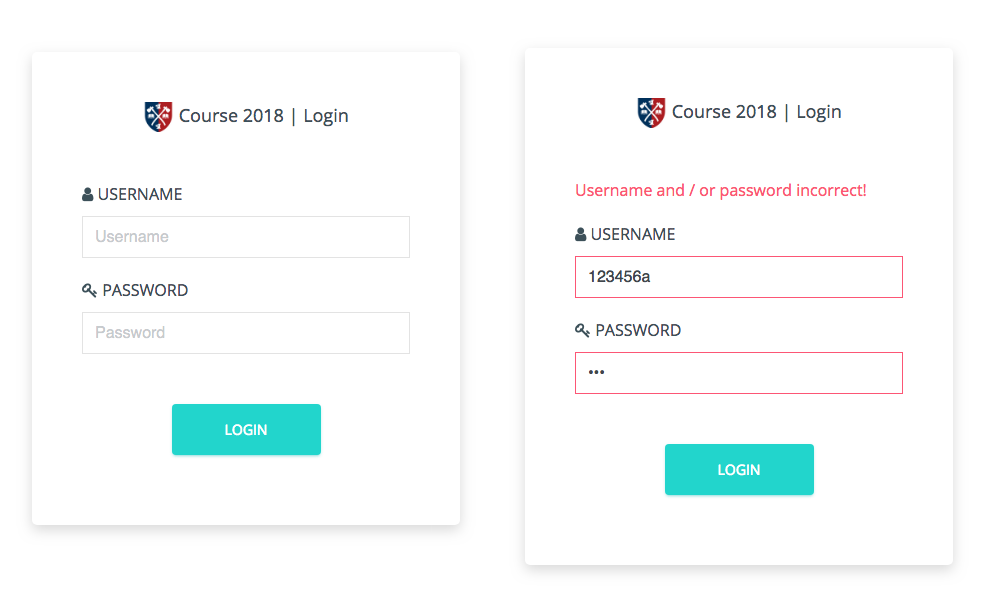
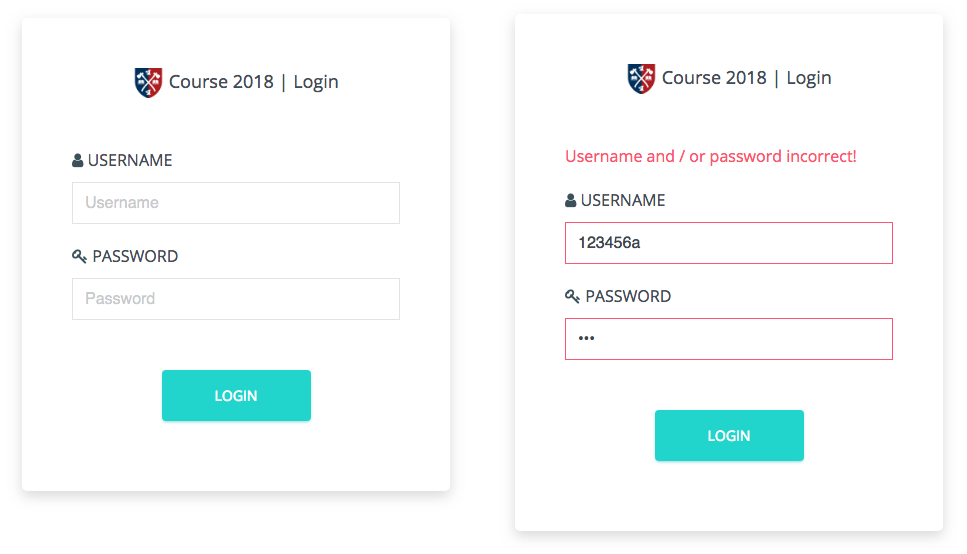
editing on chap 5

diff --git a/main/product.tex b/main/product.tex
@@ -14,7 +14,7 @@ The Login interface shown in Figure~\ref{fig:LOGIN} is used for authentication
 of all users.
 \begin{figure}[H]
     \centering
-        \includegraphics[width=.8\textwidth]{figures/login}
+        \includegraphics[width=.9\textwidth]{figures/login}
     \caption{System login interface}
     \label{fig:LOGIN}
 \end{figure}
@@ -23,7 +23,7 @@ of all users.
 
 \subsection{Create courses}
 The form shown in Figure~\ref{fig:NEW_COURSE} is used for instructors to create
-courses in the \emph{Course2018} LMS.
+courses in the \emph{Course\-2018} LMS.
 
 \begin{figure}[H]
     \centering
